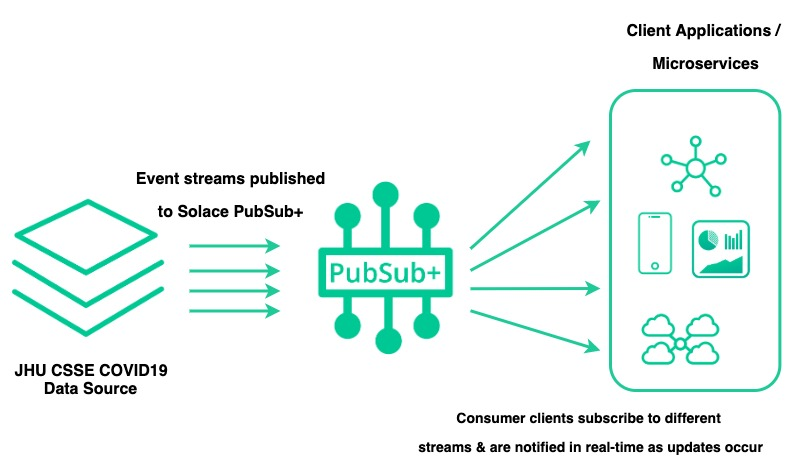
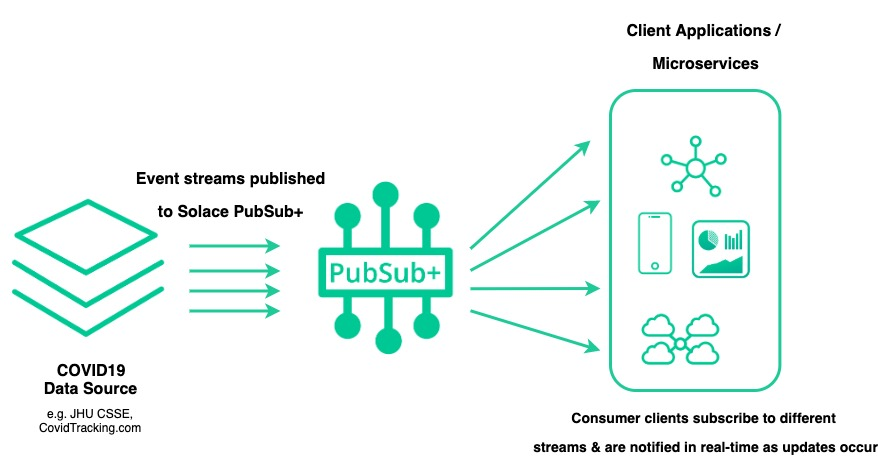
Update Readme

diff --git a/README.md b/README.md
@@ -1,46 +1,49 @@
 Table of Contents
 =================
-   * [Overview](#overview)
-   * [COVID-19 Stream Processor](#covid-19-stream-processor)
-      * [How to consume](#how-to-consume)
-         * [1. Connection information](#1-connection-information)
-            * [Connections credentials](#connections-credentials)
-               * [Credentials](#credentials)
-               * [Connection Points](#connection-points)
-         * [2. Choose your Topics](#2-choose-your-topics)
-            * [Streams are available on these topics](#streams-are-available-on-these-topics)
-            * [Example topic subscription](#example-topic-subscription)
-         * [3. Create your application](#3-create-your-application)
-            * [Sample Applications](#sample-applications-to-get-started-quickly)
-            * [COVID19 Stream Processors](#covid19-stream-processors)
-      * [Test Topics](#test-topics)
-      * [Contribution](#contribution)
-      * [Disclaimer](#disclaimer)
+   * [Overview & Data Sources](#overview--data-sources)
+      * [The Covid Tracking Project](#the-covid-tracking-project)
+      * [John Hopkins University](#john-hopkins-university)
+   * [How to consume](#how-to-consume)
+      * [1. Connection information](#1-connection-information)
+         * [Connections credentials](#connections-credentials)
+            * [Credentials](#credentials)
+            * [Connection Points](#connection-points)
+      * [2. Choose your Topics](#2-choose-your-topics)
+         * [Streams are available on these topics](#streams-are-available-on-these-topics)
+         * [Example topic subscriptions](#example-topic-subscriptions)
+      * [3. Create your application](#3-create-your-application)
+         * [Sample Applications to Get Started Quickly](#sample-applications-to-get-started-quickly)
+         * [COVID19 Stream Processors](#covid19-stream-processors)
+   * [Test Topics](#test-topics)
+   * [Contribution](#contribution)
+   * [Credit](#credit)
+   * [Disclaimer](#disclaimer)
 
+# Overview & Data Sources
+This repo provides streams information and example applications on how to consume COVID19 related topics aggregated from different data sources. Below is a list of the different data sources used to feed the published streams.
 
-# Overview
-A team at Johns Hopkins University has developed this [interactive web-based dashboard](https://www.arcgis.com/apps/opsdashboard/index.html#/bda7594740fd40299423467b48e9ecf6) to provide researchers, public health authorities, and the general public with a user-friendly tool to track the COVID-19 pandemic as it unfolds. Their team has also been nice enough to periodically (usually once or twice a day) upload the data to this [Github Repo](https://github.com/CSSEGISandData/COVID-19) which has been very popular in the developer community; but has led to developers wanting to receive updates in a more efficient manner. To further their teams’ efforts, help the community, and to “do our part”, we at Solace have created an application that polls the feature service, looks for differences in the data, and publishes updates into an Event Broker we are making available for public use. This allows anyone to consume data updates in near real-time. The data is being published into the event brokers using dynamic topics which allows subscribers to pick, choose and filter on the specific data that they want to consume; e.g.,  a developer could choose to only get updated when an update it available for a specific Country & Province/State that they are interested in. This repository shares the information needed for anyone to consume these event streams :)
+## The Covid Tracking Project
+A team for the [The Atlantic](https://www.theatlantic.com/) launched [The Covid Tracking Project](https://covidtracking.com/) to collect and publish testing data available for US states and territories.
 
+## John Hopkins University
+A team at [Johns Hopkins University Center for Systems Science and Engineering (JHU CSSE)](https://systems.jhu.edu/) has developed this [interactive web-based dashboard](https://www.arcgis.com/apps/opsdashboard/index.html#/bda7594740fd40299423467b48e9ecf6) to provide researchers, public health authorities, and the general public with a user-friendly tool to track the COVID-19 pandemic as it unfolds. Their team has also been nice enough to periodically (usually once or twice a day) upload the data to this [Github Repo](https://github.com/CSSEGISandData/COVID-19) which has been very popular in the developer community; but has led to developers wanting to receive updates in a more efficient manner. To further their teams’ efforts, help the community, and to “do our part”, we at Solace have created an application that polls the feature service, looks for differences in the data, and publishes updates into an Event Broker we are making available for public use. This allows anyone to consume data updates in near real-time. The data is being published into the event brokers using dynamic topics which allows subscribers to pick, choose and filter on the specific data that they want to consume; e.g.,  a developer could choose to only get updated when an update it available for a specific Country & Province/State that they are interested in. 
 
-# COVID-19 Stream Processor
-
-This repo provides streams information and example applications on how to consume the different topics available for consumption. The event streams published are processed directly from the [Johns Hopkins University Center for Systems Science and Engineering (JHU CSSE)](https://systems.jhu.edu/) available data. Any client application could consume those streams by subscribing to the topic of choice as per the diagram below. Note that the streams are provided over Solace PubSub+ Event Broker that has built-in support for a variety of open standard protocols and APIs.
+# How to consume
+Any client application could consume those streams by subscribing to the topic of choice as per the diagram below. Note that the streams are provided over Solace PubSub+ Event Broker that has built-in support for a variety of open standard protocols and APIs.
 
 ![PubSub+ E2E](./img/PubSub_COVID.jpg) 
-
-## How to consume
-### 1. Connection information
+## 1. Connection information
 
 Connect to the PubSub+ broker using one of the connection end points below. For more details, check out the [Solace Developer Portal](https://www.solace.dev) and the [API docs](https://docs.solace.com/APIs.htm) samples for the different messaging APIs and protocols  
 ![Supported APIs and Protocols](https://www.solace.dev/static/solace-apis-protocols-support-9cdf3a1620efa0a64c238bf062835735.png)
 
-#### Connections credentials
-##### Credentials
+### Connections credentials
+#### Credentials
 `MessageVPN` : `covid-19-streams`  
 `Client Username` : `covid-public-client`  
 `Client Password`: `covid19` 
 
-##### Connection Points
+#### Connection Points
 | API/Protocol | Host |
 |:---------- |:--------
 |`SMF Host`|`tcp://mr2r9za6fwi0wf.messaging.solace.cloud:55555`|
@@ -54,10 +57,10 @@ Connect to the PubSub+ broker using one of the connection end points below. For 
 Note: if you want to receive notifications via a REST end point that supports `POST`, contact us at covid19-project@solace.com
 
 
-### 2. Choose your Topics
+## 2. Choose your Topics
 
 
-#### Streams are available on these topics
+### Streams are available on these topics
 As of right now, the following is the list of streams available for consumption 
 
 |  Description| Schema| Topic| Notes
@@ -77,7 +80,7 @@ For more more information on using topic wildcards check out [SMF Topic Subscrip
 
 Note: If you have your own COVID-19 event stream that you'd like to share please contact us at covid19-project@solace.com
 
-#### Example topic subscriptions
+### Example topic subscriptions
 Subscribing to the following streams will give you the corresponding results:
 
 | Subscription        | Result   
@@ -92,17 +95,17 @@ Subscribing to the following streams will give you the corresponding results:
 
 
 
-### 3. Create your application
+## 3. Create your application
 After connecting and choosing the topics to listen on, it's time to build your application. Check out the examples below for applications that consume the streams.
 
-#### Sample Applications to Get Started Quickly
+### Sample Applications to Get Started Quickly
 | Application | Language | Description
 | ---- | ---| --- |
 | [Spring Cloud Stream Sample](./samples/SpringCloudStreamSample) | Java + Spring | This microservice shows how to consume events using the Spring Cloud Stream project, which abstracts the messaging APIs from the developer and allows them to focus on implementing their business logic.
 | [JavaScript Sample](./samples/JavaScriptSample)| JavaScript | This html page allows you to test out multiple topics and view the stream body response. You can check it out on the [CovidStreamViewer](https://www.marcd.dev/COVIDStreamViewer/index.html)
 |[MQTT JS Sample](./samples/mqtt)|JavaScript| This html page demonstrates connecting to the Solace PubSub+ COVID19 Broker using MQTT JS Library. You can check it out on the [MQTT CovidStreamViewer](https://www.marcd.dev/COVIDStreamViewer/mqtt/mqttListener.html)
 
-#### COVID19 Stream Processors
+### COVID19 Stream Processors
 Below are Spring Boot microservices used to create the event current streams available for consumption. They are also good examples if you would like to consume the streams and republish them into an event broker. Note that they are not intended to be run with the provided credentials as we are running them as a services.
 
 | Application        | Version           | Integration  | Description |
@@ -115,7 +118,7 @@ Below are Spring Boot microservices used to create the event current streams ava
 
 Note: Contact us at covid19-project@solace.com to add more event stream into the current broker.
 
-## Test Topics
+# Test Topics
 This section includes information about test streams that are available. Since actual updates can occur infrequently, we are providing these test streams strictly for development purposes. Instead of only receiving events when updates occur, these topics, which include `test` as a level, will regularly receive events whether or not an update has actually occurred. Once you have completed development you should remove the `test` level from your topic and you’ll only receive events when actual updates occur.
 
 |  Description| Schema| Topic| Notes
@@ -129,12 +132,12 @@ This section includes information about test streams that are available. Since a
 
 **Note that the `raw` stream is regularly updated every ~45 seconds**
 
-## Contribution
+# Contribution
 See [Contribution guidelines](./CONTRIBUTING.md) form more details
 
-## Credit
+# Credit
 * Social Preview Image by [Gerd Altmann](https://pixabay.com/users/geralt-9301/?utm_source=link-attribution&amp;utm_medium=referral&amp;utm_campaign=image&amp;utm_content=3513216) from [Pixabay](https://pixabay.com/?utm_source=link-attribution&amp;utm_medium=referral&amp;utm_campaign=image&amp;utm_content=3513216)
 
-## Disclaimer
+# Disclaimer
 1. As per Johns Hopkins University [Terms of Use](https://github.com/CSSEGISandData/COVID-19) this data is public strictly for educational and academic research purposes.
 1. Data streams are provided and maintained by [Solace](https://www.solace.dev/) under the same terms of use.
